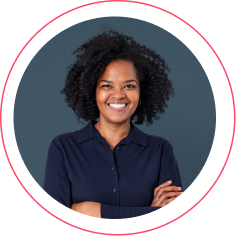
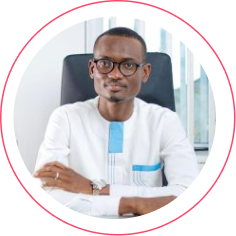
team members updated

diff --git a/public/about/index.html b/public/about/index.html
@@ -74,7 +74,7 @@
                         <div class="dropdown-menu">
                             <div class="col-2">
                                 <div>
-                                    <h2 class="mb-20 red-text">Lorem Ipsum is simply dummy text of the printing and typesetting industry. Lorem Ipsum has been t</h2>
+                                    <h2 class="mb-20 red-text">We're Helping Girls from Northern Ghana Build a Brighter, More Equitable Future </h2>
                                     <a href="/about" class="btn btn-yellow">About Us</a>
                                 </div>
                                 <div>
@@ -104,7 +104,7 @@
                         <div class="dropdown-menu">
                             <div class="col-2">
                                 <div>
-                                    <h2 class="mb-20 green-text">Lorem Ipsum is simply dummy text of the printing and typesetting industry. Lorem Ipsum has been t</h2>
+                                    <h2 class="mb-20 green-text">From Coding Camps to Mentorship - Discover NGI's Impactful Programs Uplifting Girls in Northern Ghana!</h2>
                                     <a href="/project/" class="btn btn-yellow">Our Projects</a>
                                 </div>
                                 <div>
@@ -163,8 +163,8 @@
         <div class="hero-2-container">
             <h1 class="hero-heading">About us</h1>
             <p>We're supporting girls' education and programs across Northern Ghana's communities.
-            <br>    
-             From helping girls complete school and pursue careers, to giving young female activists platforms to advocate for equal rights - we're showing girls their power to create positive change.</p>
+            <br>
+            From helping girls complete school and pursue careers, to giving young female activists platforms to advocate for equal rights - we're showing girls their power to create positive change.</p>
         </div>
     </div>
 </section>
@@ -292,45 +292,26 @@
         <p class="mb-50">NGI's passionate team with a shared mission. We come from diverse backgrounds, yet we all pitch in wherever needed - whether implementing educational programs, connecting mentors, or researching challenges facing women in the region. We’re working to make a difference, every day.</p>
         <div class="col-4">
             <div class="member">
-                <img src="/assets/team-1.png" alt="NGI Team">
-                <p class="name">Lorem ipsum sit amit</p>
-                <p class="title">CEO NGI Foundation</p>
+                <img src="/assets/team-2.png" alt="NGI Team">
+                <p class="name">Dr. Namawo Alolo</p>
+                <p class="title">Co-founder/VP</p>
             </div>
             <div class="member">
                 <img src="/assets/team-1.png" alt="NGI Team">
-                <p class="name">Lorem ipsum sit amit</p>
-                <p class="title">CEO NGI Foundation</p>
+                <p class="name">Mubarik Ibrahim</p>
+                <p class="title">Board Member</p>
             </div>
             <div class="member">
-                <img src="/assets/team-1.png" alt="NGI Team">
-                <p class="name">Lorem ipsum sit amit</p>
-                <p class="title">CEO NGI Foundation</p>
+                <img src="/assets/team-4.png" alt="NGI Team">
+                <p class="name">Deliman Yaro Ruka</p>
+                <p class="title">Executive Director</p>
             </div>
             <div class="member">
-                <img src="/assets/team-1.png" alt="NGI Team">
-                <p class="name">Lorem ipsum sit amit</p>
-                <p class="title">CEO NGI Foundation</p>
+                <img src="/assets/team-3.png" alt="NGI Team">
+                <p class="name">Samiha Yunus</p>
+                <p class="title">Manager of Volunteers</p>
             </div>
-            <div class="member">
-                <img src="/assets/team-1.png" alt="NGI Team">
-                <p class="name">Lorem ipsum sit amit</p>
-                <p class="title">CEO NGI Foundation</p>
-            </div>
-            <div class="member">
-                <img src="/assets/team-1.png" alt="NGI Team">
-                <p class="name">Lorem ipsum sit amit</p>
-                <p class="title">CEO NGI Foundation</p>
-            </div>
-            <div class="member">
-                <img src="/assets/team-1.png" alt="NGI Team">
-                <p class="name">Lorem ipsum sit amit</p>
-                <p class="title">CEO NGI Foundation</p>
-            </div>
-            <div class="member">
-                <img src="/assets/team-1.png" alt="NGI Team">
-                <p class="name">Lorem ipsum sit amit</p>
-                <p class="title">CEO NGI Foundation</p>
-            </div>
+            
         </div>
     </div>
 </section>

diff --git a/public/blog/2024-01-11-future-of-insurance/index.html b/public/blog/2024-01-11-future-of-insurance/index.html
@@ -80,7 +80,7 @@
                         <div class="dropdown-menu">
                             <div class="col-2">
                                 <div>
-                                    <h2 class="mb-20 red-text">Lorem Ipsum is simply dummy text of the printing and typesetting industry. Lorem Ipsum has been t</h2>
+                                    <h2 class="mb-20 red-text">We're Helping Girls from Northern Ghana Build a Brighter, More Equitable Future </h2>
                                     <a href="/about" class="btn btn-yellow">About Us</a>
                                 </div>
                                 <div>
@@ -110,7 +110,7 @@
                         <div class="dropdown-menu">
                             <div class="col-2">
                                 <div>
-                                    <h2 class="mb-20 green-text">Lorem Ipsum is simply dummy text of the printing and typesetting industry. Lorem Ipsum has been t</h2>
+                                    <h2 class="mb-20 green-text">From Coding Camps to Mentorship - Discover NGI's Impactful Programs Uplifting Girls in Northern Ghana!</h2>
                                     <a href="/project/" class="btn btn-yellow">Our Projects</a>
                                 </div>
                                 <div>

diff --git a/public/blog/2024-01-12-developing-the-next-generation-of-female-talent-in-risk-insurance-perspectives-from-west-africa-part-1/index.html b/public/blog/2024-01-12-developing-the-next-generation-of-female-talent-in-risk-insurance-perspectives-from-west-africa-part-1/index.html
@@ -80,7 +80,7 @@
                         <div class="dropdown-menu">
                             <div class="col-2">
                                 <div>
-                                    <h2 class="mb-20 red-text">Lorem Ipsum is simply dummy text of the printing and typesetting industry. Lorem Ipsum has been t</h2>
+                                    <h2 class="mb-20 red-text">We're Helping Girls from Northern Ghana Build a Brighter, More Equitable Future </h2>
                                     <a href="/about" class="btn btn-yellow">About Us</a>
                                 </div>
                                 <div>
@@ -110,7 +110,7 @@
                         <div class="dropdown-menu">
                             <div class="col-2">
                                 <div>
-                                    <h2 class="mb-20 green-text">Lorem Ipsum is simply dummy text of the printing and typesetting industry. Lorem Ipsum has been t</h2>
+                                    <h2 class="mb-20 green-text">From Coding Camps to Mentorship - Discover NGI's Impactful Programs Uplifting Girls in Northern Ghana!</h2>
                                     <a href="/project/" class="btn btn-yellow">Our Projects</a>
                                 </div>
                                 <div>

diff --git a/public/blog/2024-01-12-developing-the-next-generation-of-female-talent-in-risk-insurance-perspectives-from-west-africa-part-2/index.html b/public/blog/2024-01-12-developing-the-next-generation-of-female-talent-in-risk-insurance-perspectives-from-west-africa-part-2/index.html
@@ -80,7 +80,7 @@
                         <div class="dropdown-menu">
                             <div class="col-2">
                                 <div>
-                                    <h2 class="mb-20 red-text">Lorem Ipsum is simply dummy text of the printing and typesetting industry. Lorem Ipsum has been t</h2>
+                                    <h2 class="mb-20 red-text">We're Helping Girls from Northern Ghana Build a Brighter, More Equitable Future </h2>
                                     <a href="/about" class="btn btn-yellow">About Us</a>
                                 </div>
                                 <div>
@@ -110,7 +110,7 @@
                         <div class="dropdown-menu">
                             <div class="col-2">
                                 <div>
-                                    <h2 class="mb-20 green-text">Lorem Ipsum is simply dummy text of the printing and typesetting industry. Lorem Ipsum has been t</h2>
+                                    <h2 class="mb-20 green-text">From Coding Camps to Mentorship - Discover NGI's Impactful Programs Uplifting Girls in Northern Ghana!</h2>
                                     <a href="/project/" class="btn btn-yellow">Our Projects</a>
                                 </div>
                                 <div>

diff --git a/public/blog/2024-01-12-project-1/index.html b/public/blog/2024-01-12-project-1/index.html
@@ -80,7 +80,7 @@
                         <div class="dropdown-menu">
                             <div class="col-2">
                                 <div>
-                                    <h2 class="mb-20 red-text">Lorem Ipsum is simply dummy text of the printing and typesetting industry. Lorem Ipsum has been t</h2>
+                                    <h2 class="mb-20 red-text">We're Helping Girls from Northern Ghana Build a Brighter, More Equitable Future </h2>
                                     <a href="/about" class="btn btn-yellow">About Us</a>
                                 </div>
                                 <div>
@@ -110,7 +110,7 @@
                         <div class="dropdown-menu">
                             <div class="col-2">
                                 <div>
-                                    <h2 class="mb-20 green-text">Lorem Ipsum is simply dummy text of the printing and typesetting industry. Lorem Ipsum has been t</h2>
+                                    <h2 class="mb-20 green-text">From Coding Camps to Mentorship - Discover NGI's Impactful Programs Uplifting Girls in Northern Ghana!</h2>
                                     <a href="/project/" class="btn btn-yellow">Our Projects</a>
                                 </div>
                                 <div>

diff --git a/public/blog/2024-01-12-project-2/index.html b/public/blog/2024-01-12-project-2/index.html
@@ -80,7 +80,7 @@
                         <div class="dropdown-menu">
                             <div class="col-2">
                                 <div>
-                                    <h2 class="mb-20 red-text">Lorem Ipsum is simply dummy text of the printing and typesetting industry. Lorem Ipsum has been t</h2>
+                                    <h2 class="mb-20 red-text">We're Helping Girls from Northern Ghana Build a Brighter, More Equitable Future </h2>
                                     <a href="/about" class="btn btn-yellow">About Us</a>
                                 </div>
                                 <div>
@@ -110,7 +110,7 @@
                         <div class="dropdown-menu">
                             <div class="col-2">
                                 <div>
-                                    <h2 class="mb-20 green-text">Lorem Ipsum is simply dummy text of the printing and typesetting industry. Lorem Ipsum has been t</h2>
+                                    <h2 class="mb-20 green-text">From Coding Camps to Mentorship - Discover NGI's Impactful Programs Uplifting Girls in Northern Ghana!</h2>
                                     <a href="/project/" class="btn btn-yellow">Our Projects</a>
                                 </div>
                                 <div>

diff --git a/public/blog/2024-01-12-project-3/index.html b/public/blog/2024-01-12-project-3/index.html
@@ -80,7 +80,7 @@
                         <div class="dropdown-menu">
                             <div class="col-2">
                                 <div>
-                                    <h2 class="mb-20 red-text">Lorem Ipsum is simply dummy text of the printing and typesetting industry. Lorem Ipsum has been t</h2>
+                                    <h2 class="mb-20 red-text">We're Helping Girls from Northern Ghana Build a Brighter, More Equitable Future </h2>
                                     <a href="/about" class="btn btn-yellow">About Us</a>
                                 </div>
                                 <div>
@@ -110,7 +110,7 @@
                         <div class="dropdown-menu">
                             <div class="col-2">
                                 <div>
-                                    <h2 class="mb-20 green-text">Lorem Ipsum is simply dummy text of the printing and typesetting industry. Lorem Ipsum has been t</h2>
+                                    <h2 class="mb-20 green-text">From Coding Camps to Mentorship - Discover NGI's Impactful Programs Uplifting Girls in Northern Ghana!</h2>
                                     <a href="/project/" class="btn btn-yellow">Our Projects</a>
                                 </div>
                                 <div>

diff --git a/public/blog/index.html b/public/blog/index.html
@@ -74,7 +74,7 @@
                         <div class="dropdown-menu">
                             <div class="col-2">
                                 <div>
-                                    <h2 class="mb-20 red-text">Lorem Ipsum is simply dummy text of the printing and typesetting industry. Lorem Ipsum has been t</h2>
+                                    <h2 class="mb-20 red-text">We're Helping Girls from Northern Ghana Build a Brighter, More Equitable Future </h2>
                                     <a href="/about" class="btn btn-yellow">About Us</a>
                                 </div>
                                 <div>
@@ -104,7 +104,7 @@
                         <div class="dropdown-menu">
                             <div class="col-2">
                                 <div>
-                                    <h2 class="mb-20 green-text">Lorem Ipsum is simply dummy text of the printing and typesetting industry. Lorem Ipsum has been t</h2>
+                                    <h2 class="mb-20 green-text">From Coding Camps to Mentorship - Discover NGI's Impactful Programs Uplifting Girls in Northern Ghana!</h2>
                                     <a href="/project/" class="btn btn-yellow">Our Projects</a>
                                 </div>
                                 <div>

diff --git a/public/contact/index.html b/public/contact/index.html
@@ -74,7 +74,7 @@
                         <div class="dropdown-menu">
                             <div class="col-2">
                                 <div>
-                                    <h2 class="mb-20 red-text">Lorem Ipsum is simply dummy text of the printing and typesetting industry. Lorem Ipsum has been t</h2>
+                                    <h2 class="mb-20 red-text">We're Helping Girls from Northern Ghana Build a Brighter, More Equitable Future </h2>
                                     <a href="/about" class="btn btn-yellow">About Us</a>
                                 </div>
                                 <div>
@@ -104,7 +104,7 @@
                         <div class="dropdown-menu">
                             <div class="col-2">
                                 <div>
-                                    <h2 class="mb-20 green-text">Lorem Ipsum is simply dummy text of the printing and typesetting industry. Lorem Ipsum has been t</h2>
+                                    <h2 class="mb-20 green-text">From Coding Camps to Mentorship - Discover NGI's Impactful Programs Uplifting Girls in Northern Ghana!</h2>
                                     <a href="/project/" class="btn btn-yellow">Our Projects</a>
                                 </div>
                                 <div>

diff --git a/public/donate/index.html b/public/donate/index.html
@@ -74,7 +74,7 @@
                         <div class="dropdown-menu">
                             <div class="col-2">
                                 <div>
-                                    <h2 class="mb-20 red-text">Lorem Ipsum is simply dummy text of the printing and typesetting industry. Lorem Ipsum has been t</h2>
+                                    <h2 class="mb-20 red-text">We're Helping Girls from Northern Ghana Build a Brighter, More Equitable Future </h2>
                                     <a href="/about" class="btn btn-yellow">About Us</a>
                                 </div>
                                 <div>
@@ -104,7 +104,7 @@
                         <div class="dropdown-menu">
                             <div class="col-2">
                                 <div>
-                                    <h2 class="mb-20 green-text">Lorem Ipsum is simply dummy text of the printing and typesetting industry. Lorem Ipsum has been t</h2>
+                                    <h2 class="mb-20 green-text">From Coding Camps to Mentorship - Discover NGI's Impactful Programs Uplifting Girls in Northern Ghana!</h2>
                                     <a href="/project/" class="btn btn-yellow">Our Projects</a>
                                 </div>
                                 <div>

diff --git a/public/faqs/index.html b/public/faqs/index.html
@@ -74,7 +74,7 @@
                         <div class="dropdown-menu">
                             <div class="col-2">
                                 <div>
-                                    <h2 class="mb-20 red-text">Lorem Ipsum is simply dummy text of the printing and typesetting industry. Lorem Ipsum has been t</h2>
+                                    <h2 class="mb-20 red-text">We're Helping Girls from Northern Ghana Build a Brighter, More Equitable Future </h2>
                                     <a href="/about" class="btn btn-yellow">About Us</a>
                                 </div>
                                 <div>
@@ -104,7 +104,7 @@
                         <div class="dropdown-menu">
                             <div class="col-2">
                                 <div>
-                                    <h2 class="mb-20 green-text">Lorem Ipsum is simply dummy text of the printing and typesetting industry. Lorem Ipsum has been t</h2>
+                                    <h2 class="mb-20 green-text">From Coding Camps to Mentorship - Discover NGI's Impactful Programs Uplifting Girls in Northern Ghana!</h2>
                                     <a href="/project/" class="btn btn-yellow">Our Projects</a>
                                 </div>
                                 <div>

diff --git a/public/index.html b/public/index.html
@@ -74,7 +74,7 @@
                         <div class="dropdown-menu">
                             <div class="col-2">
                                 <div>
-                                    <h2 class="mb-20 red-text">Lorem Ipsum is simply dummy text of the printing and typesetting industry. Lorem Ipsum has been t</h2>
+                                    <h2 class="mb-20 red-text">We're Helping Girls from Northern Ghana Build a Brighter, More Equitable Future </h2>
                                     <a href="/about" class="btn btn-yellow">About Us</a>
                                 </div>
                                 <div>
@@ -104,7 +104,7 @@
                         <div class="dropdown-menu">
                             <div class="col-2">
                                 <div>
-                                    <h2 class="mb-20 green-text">Lorem Ipsum is simply dummy text of the printing and typesetting industry. Lorem Ipsum has been t</h2>
+                                    <h2 class="mb-20 green-text">From Coding Camps to Mentorship - Discover NGI's Impactful Programs Uplifting Girls in Northern Ghana!</h2>
                                     <a href="/project/" class="btn btn-yellow">Our Projects</a>
                                 </div>
                                 <div>
